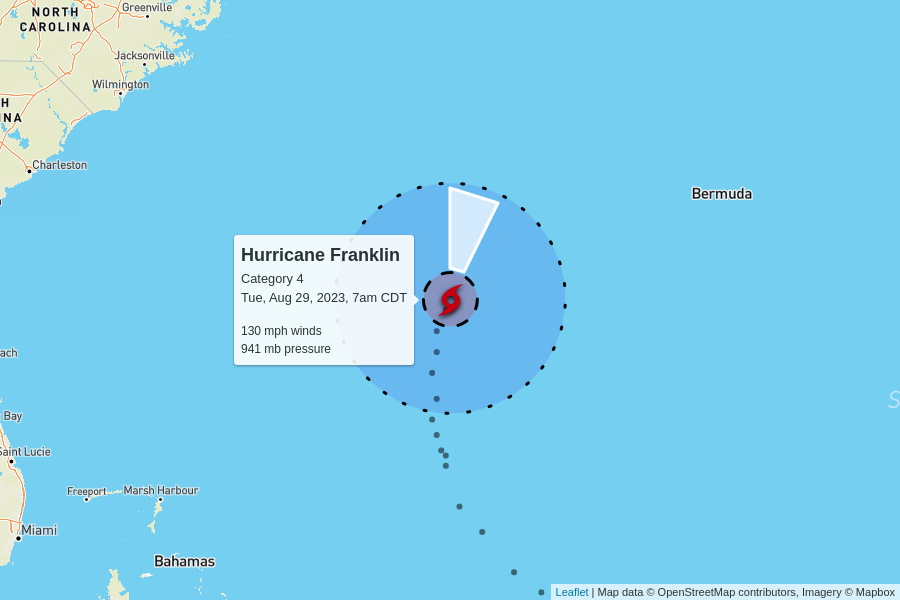
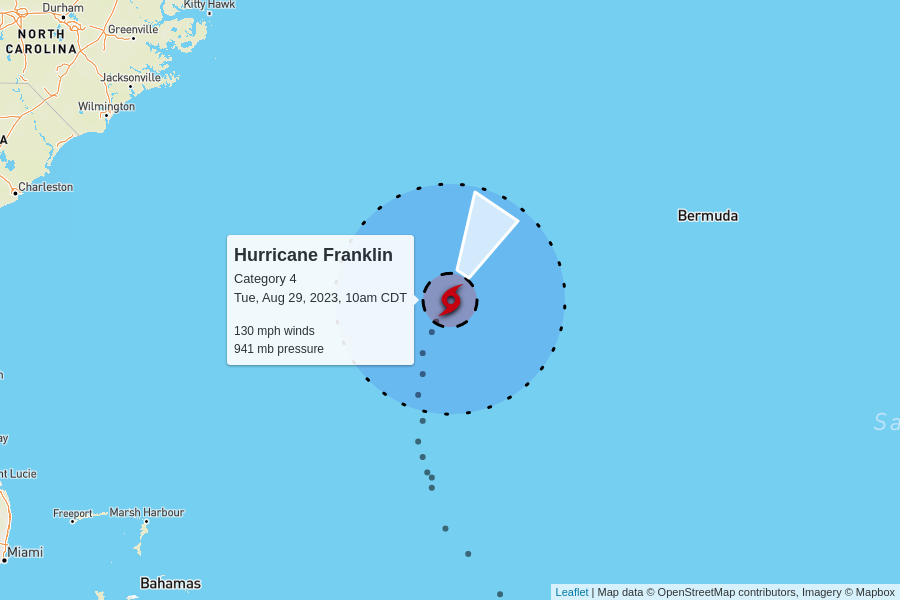
automatic update

diff --git a/docs/index.html b/docs/index.html
@@ -100,7 +100,7 @@
         <td colspan="6" class="storm category-4" >
           <h2>
             Hurricane Franklin - Category 4
-            <p class="updated">last updated <span data-time>2023-08-29T12:00:00.000Z</span></p>
+            <p class="updated">last updated <span data-time>2023-08-29T15:00:00.000Z</span></p>
           </h2>
         </td>
       </tr>
@@ -118,9 +118,9 @@
         <td>130 mph</td>
         <td>941 mb</td>
         <td>
-          9 mph to the north-northeast
+          12 mph to the north-northeast
           <br/>
-          <span style="display: inline-block; font-size: 1.5em; transform: rotate(15deg);">↑</span>
+          <span style="display: inline-block; font-size: 1.5em; transform: rotate(30deg);">↑</span>
         </td>
         <td><a href="https://raw.githubusercontent.com/mgwalker/atlantic-hurricanes/main/data/csv/AL082023.csv">AL082023.csv</a></td>
         <td><a href="https://www.nhc.noaa.gov/archive/2023/FRANKLIN.shtml?">NHC advisories</a></td>
@@ -144,7 +144,7 @@
         <td colspan="6" class="storm category-1" >
           <h2>
             Hurricane Idalia - Category 1
-            <p class="updated">last updated <span data-time>2023-08-29T12:00:00.000Z</span></p>
+            <p class="updated">last updated <span data-time>2023-08-29T15:00:00.000Z</span></p>
           </h2>
         </td>
       </tr>
@@ -159,8 +159,8 @@
       </tr>
       <tr>
         <td class="spacer"></td>
-        <td>80 mph</td>
-        <td>977 mb</td>
+        <td>85 mph</td>
+        <td>976 mb</td>
         <td>
           14 mph to the north
           <br/>
@@ -174,6 +174,50 @@
         <td colspan="5">
           <figure>
             <img src="AL102023.png">
+            <figcaption>
+              Map data &copy; <a href="https://www.openstreetmap.org/copyright">OpenStreetMap</a> contributors,
+              Imagery &copy; <a href="https://www.mapbox.com/">Mapbox</a> |
+              <a href="https://www.mapbox.com/map-feedback/" target="_blank">Improve this map</a>
+            </figcaption>
+          </figure>
+        </td>
+      </tr>
+      
+
+      <tr>
+        <td colspan="6" class="storm category-0" >
+          <h2>
+            Tropical Depression Eleven
+            <p class="updated">last updated <span data-time>2023-08-29T15:00:00.000Z</span></p>
+          </h2>
+        </td>
+      </tr>
+      
+      <tr>
+        <th class="spacer"></th>
+        <th>wind speed</th>
+        <th>central pressure</th>
+        <th>movement</th>
+        <th>data (CSV)</th>
+        <th>National Hurricane Center</th>
+      </tr>
+      <tr>
+        <td class="spacer"></td>
+        <td>35 mph</td>
+        <td>1014 mb</td>
+        <td>
+          2 mph to the north
+          <br/>
+          <span style="display: inline-block; font-size: 1.5em; transform: rotate(360deg);">↑</span>
+        </td>
+        <td><a href="https://raw.githubusercontent.com/mgwalker/atlantic-hurricanes/main/data/csv/AL112023.csv">AL112023.csv</a></td>
+        <td><a href="https://www.nhc.noaa.gov/archive/2023/ELEVEN.shtml?">NHC advisories</a></td>
+      </tr>
+      <tr id="storm_AL112023" >
+        <td class="spacer">
+        <td colspan="5">
+          <figure>
+            <img src="AL112023.png">
             <figcaption>
               Map data &copy; <a href="https://www.openstreetmap.org/copyright">OpenStreetMap</a> contributors,
               Imagery &copy; <a href="https://www.mapbox.com/">Mapbox</a> |
